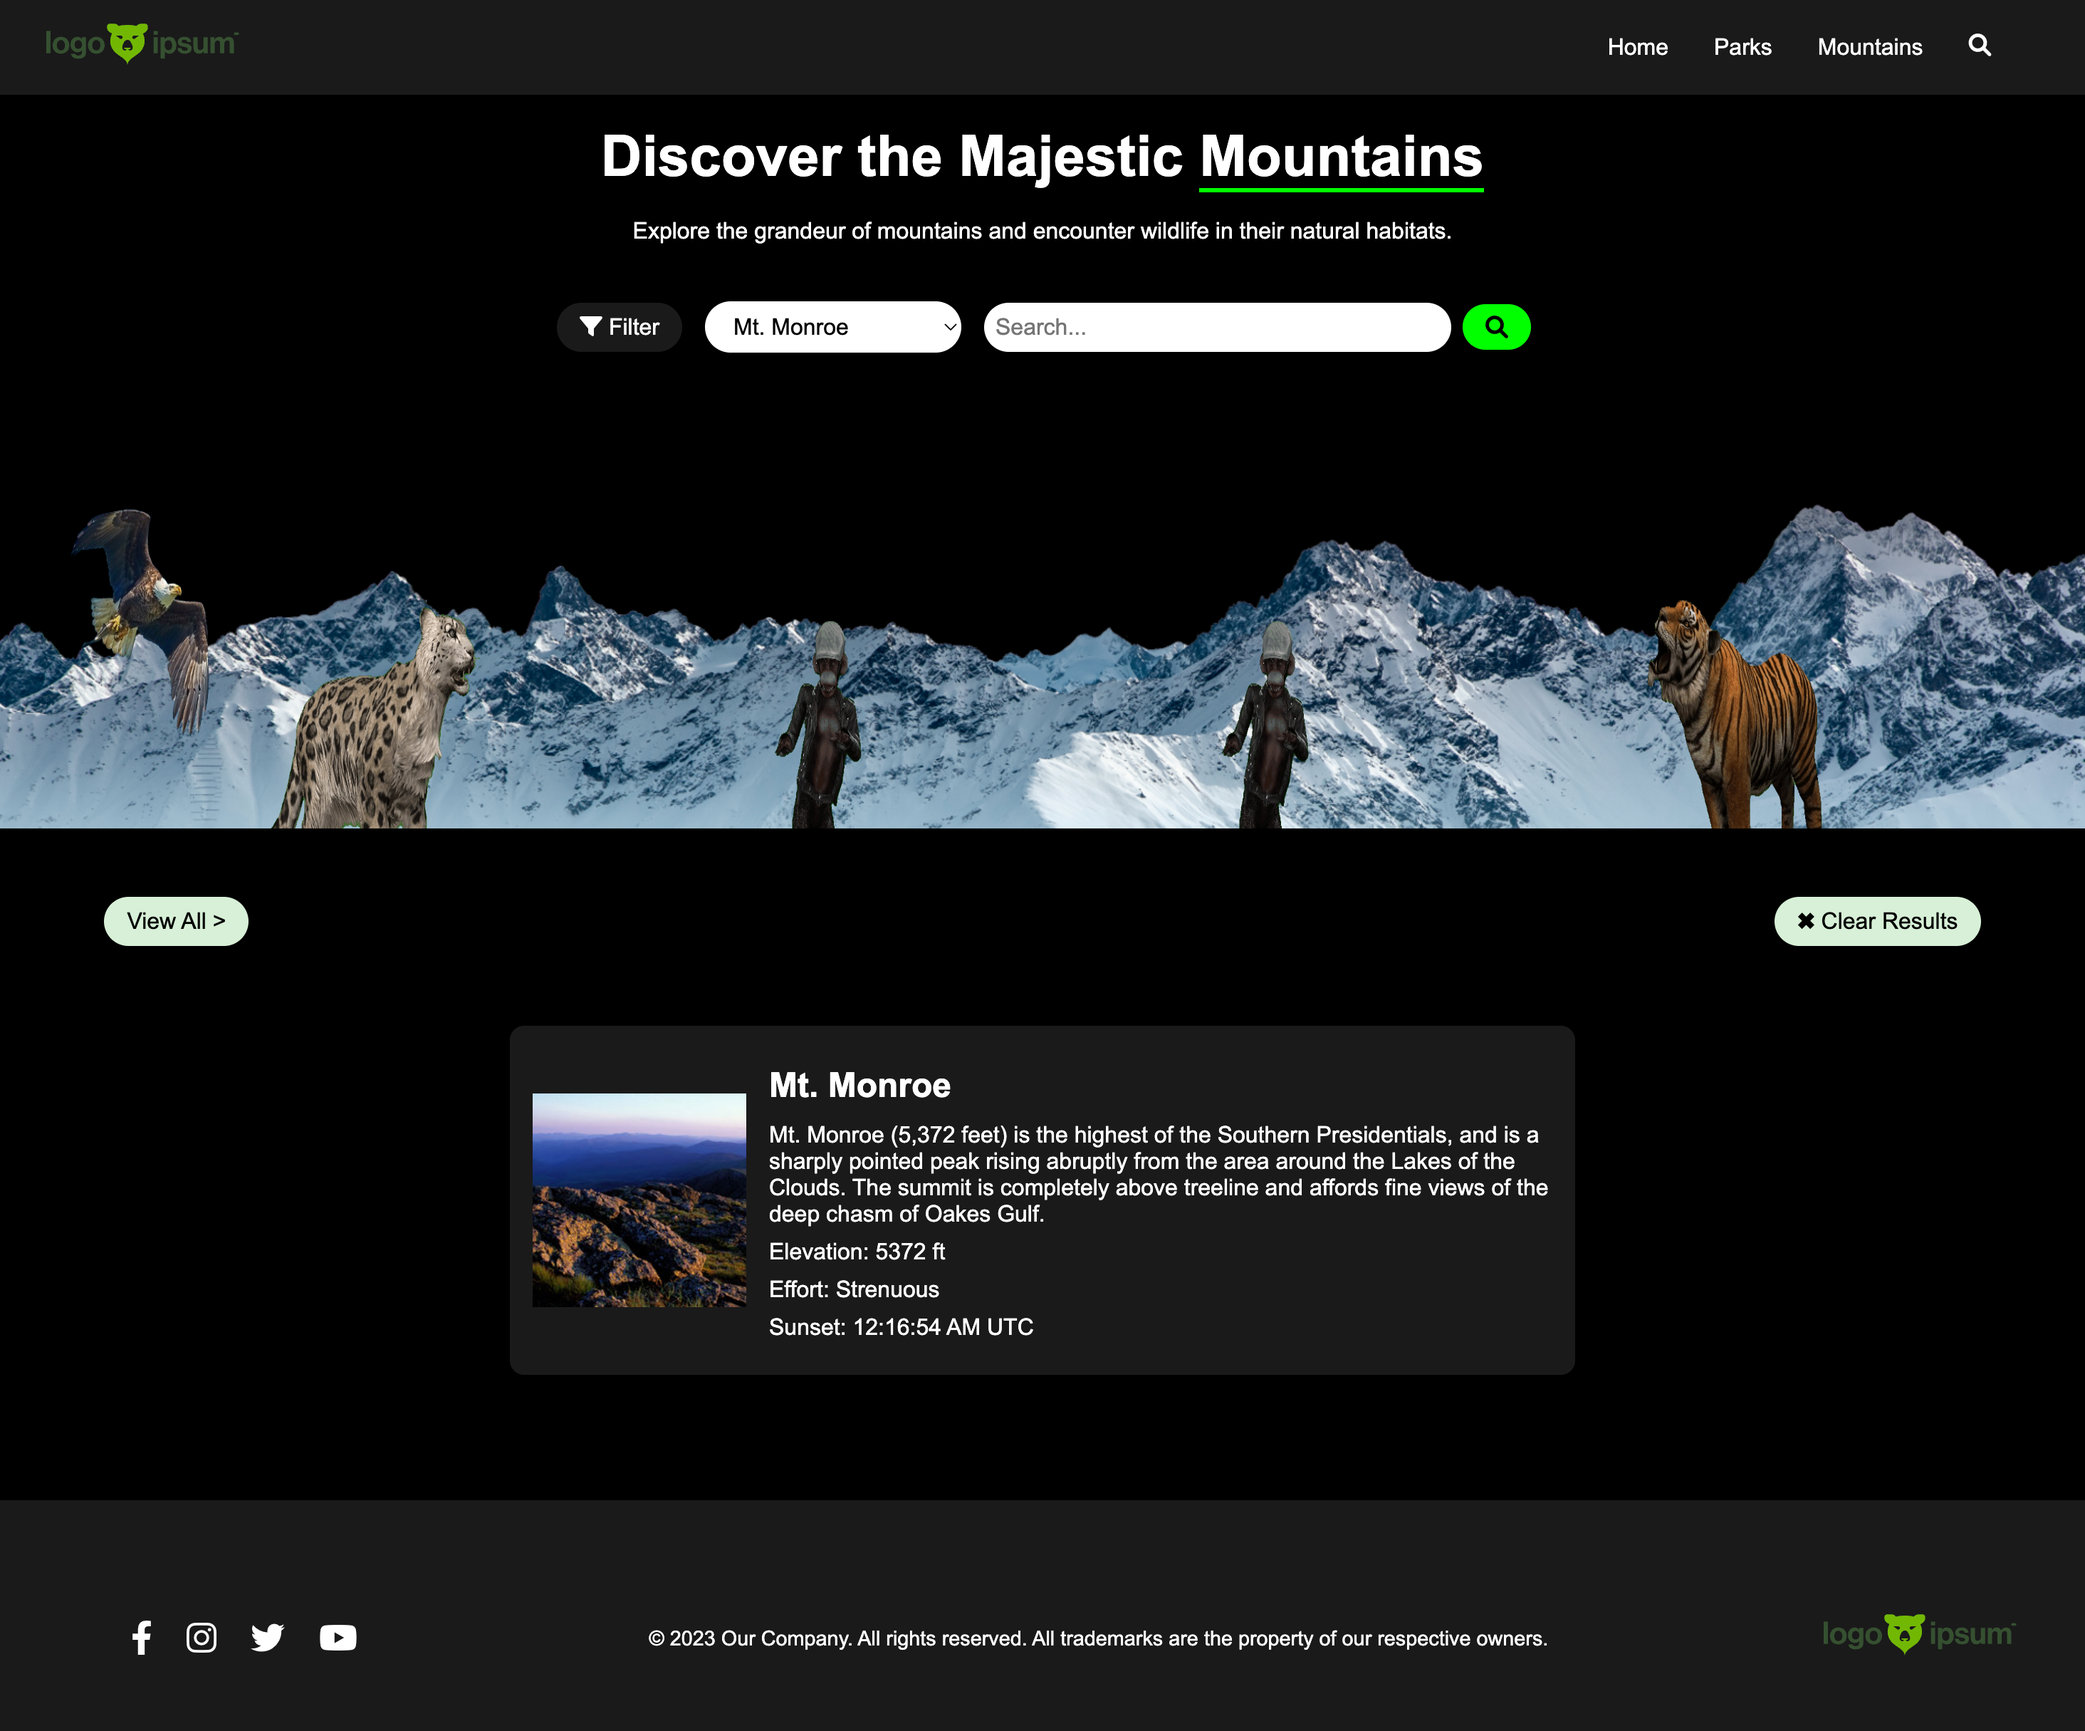
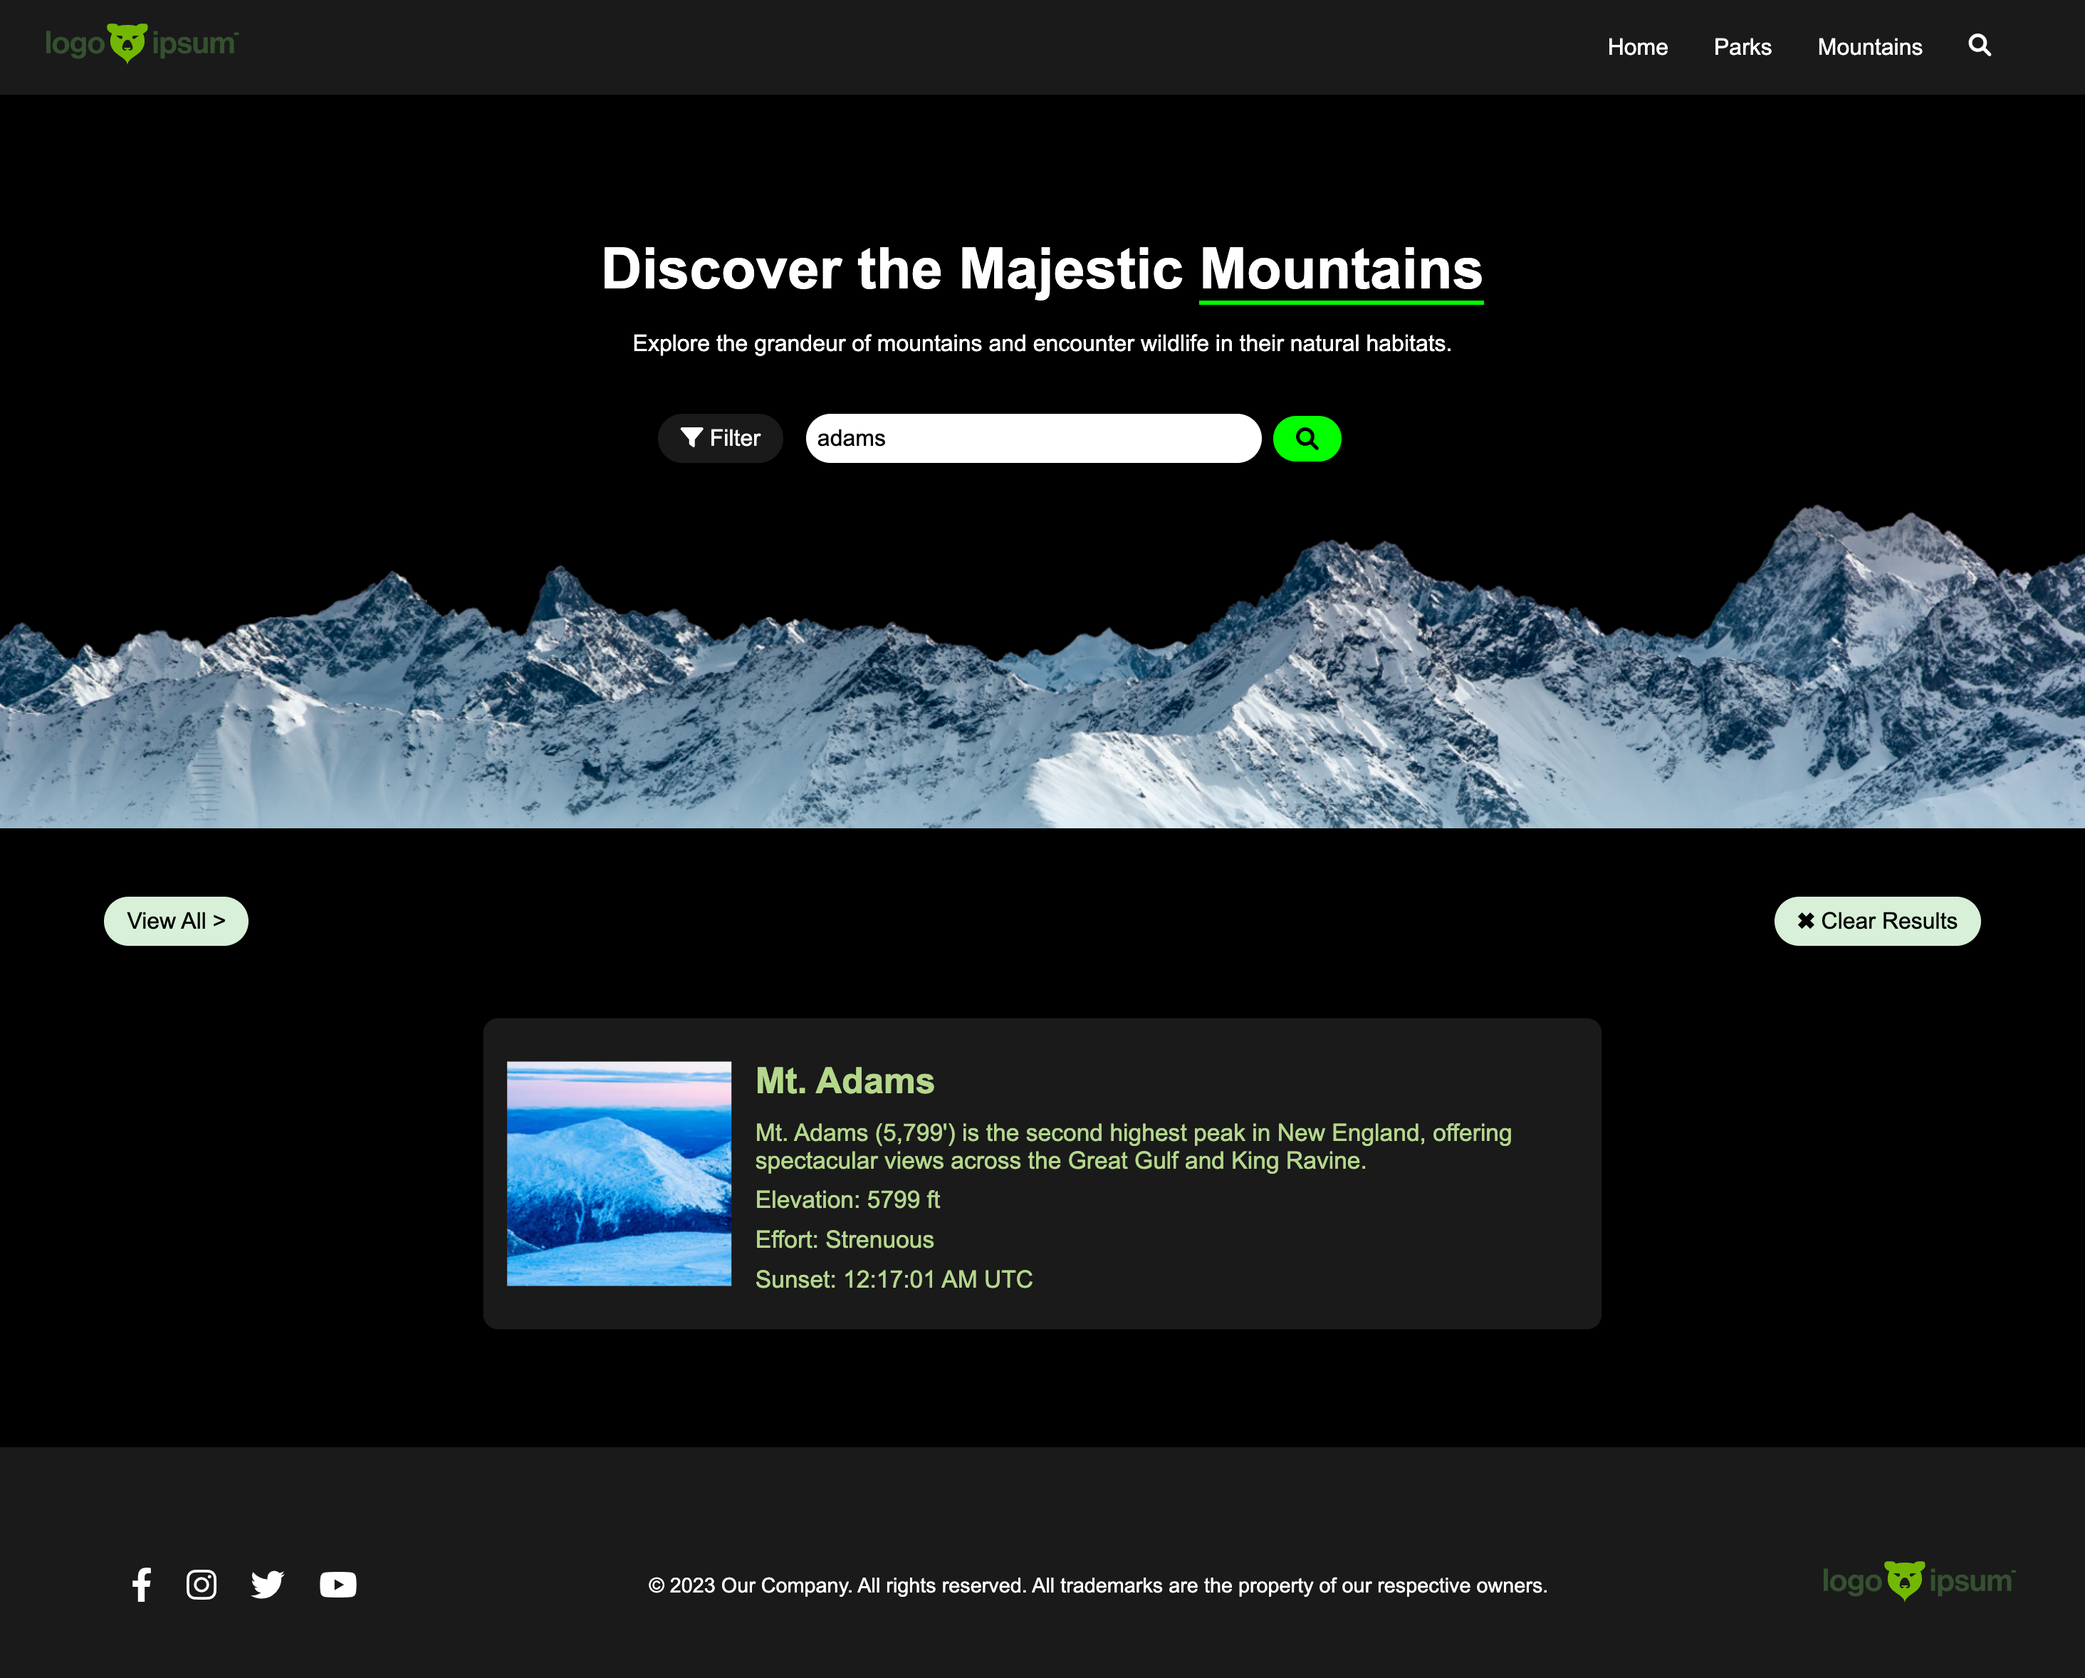
update mountain

diff --git a/css/style.css b/css/style.css
@@ -1153,7 +1153,7 @@ body {
   width: 80%;
   max-width: 700px;
   margin-bottom: 2em;
-  margin-left: 26em;
+  margin: auto;
 }
 
 .filterButtonMountain {
